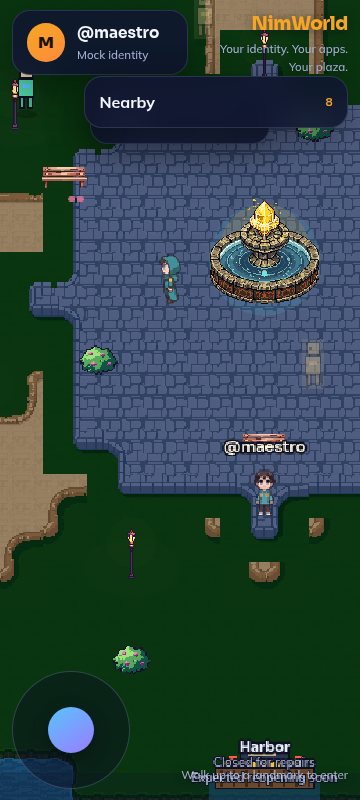
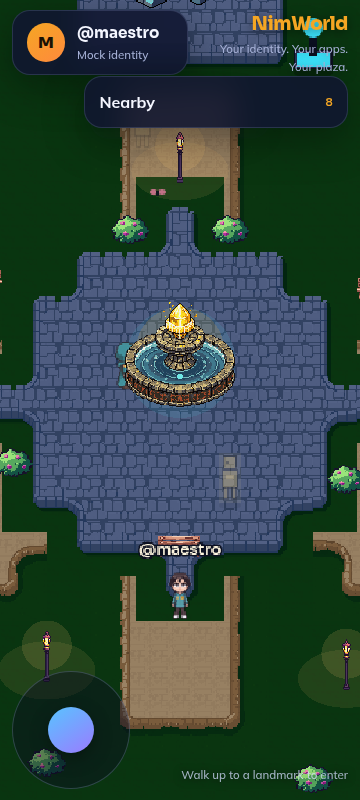
fix(web): make the plaza spokes read as roads
Spokes were painted by stamping a brush along the line and rounding to a cell
at each step, so their edges alternated between full and narrow runs and they
read as torn slabs. stampRoad rasterizes by perpendicular distance instead,
which is clean at any angle; the Bezier bulge and jitter go with it, since
every spoke is straight.

Shrinks the hub so the avenues have room to be avenues, and extends the south
approach past SPAWN_POINT — that point sits exactly HUB_RADIUS from the center,
so the hub disk was erasing the whole spoke without failing a test.

diff --git a/apps/web/src/game/world/plazaTerrainMap.ts b/apps/web/src/game/world/plazaTerrainMap.ts
@@ -58,29 +58,72 @@ function stampLandingPad(
   }
 }
 
-/** Quadratic Bezier ribbon with organic bulge / jitter. */
-function stampCurve(
+/**
+ * Snap a road axis so a band of `width` cells lands on exactly that many cells.
+ * Odd widths straddle a cell, even widths straddle the seam between two.
+ */
+function snapAxis(axis: number, width: number): number {
+  return width % 2 === 0 ? Math.round(axis - 0.5) + 0.5 : Math.round(axis)
+}
+
+/**
+ * Stamp a straight road `width` cells wide between two world-space points.
+ *
+ * Rasterized by perpendicular distance rather than by stamping a brush along
+ * the line: a brush rounds its position to a cell at every step, so its edges
+ * alternate between full and narrow runs and the road reads as a torn ribbon.
+ *
+ * A road renders one display tile wider than its cell count, because the Wang
+ * layer needs a transition tile on each side. `width: 2` is the narrowest road
+ * with a solid core — at width 1 every tile is a transition and the road has
+ * no middle.
+ */
+function stampRoad(
   grid: TerrainCell[][],
   x0: number,
   y0: number,
   x1: number,
   y1: number,
-  bulge: number,
-  halfWidth: number,
+  width: number,
   value: TerrainCell,
-  steps = 28,
 ): void {
-  const tile = TERRAIN_TILE
-  const xc = (x0 + x1) / 2 + bulge
-  const yc = (y0 + y1) / 2 - Math.abs(bulge) * 0.22
-  for (let i = 0; i <= steps; i++) {
-    const t = i / steps
-    const x = (1 - t) * (1 - t) * x0 + 2 * (1 - t) * t * xc + t * t * x1
-    const y = (1 - t) * (1 - t) * y0 + 2 * (1 - t) * t * yc + t * t * y1
-    const jitter = Math.sin(i * 1.7 + bulge * 0.01) * 6
-    const col = Math.round((x + jitter) / tile)
-    const row = Math.round(y / tile)
-    stampDisk(grid, col, row, halfWidth, value)
+  let ax = x0 / TERRAIN_TILE
+  let ay = y0 / TERRAIN_TILE
+  let bx = x1 / TERRAIN_TILE
+  let by = y1 / TERRAIN_TILE
+
+  // Straighten near-axis-aligned roads. The Arena and Marketplace sit one cell
+  // off the hub's row, which rasterizes as a single jog partway along an
+  // otherwise straight avenue — worse than the 32px of drift it corrects.
+  if (Math.abs(by - ay) < 1.5) {
+    ay = by = snapAxis(ay, width)
+  } else if (Math.abs(bx - ax) < 1.5) {
+    ax = bx = snapAxis(ax, width)
+  }
+
+  const dx = bx - ax
+  const dy = by - ay
+  const len2 = dx * dx + dy * dy
+  if (len2 === 0) return
+
+  // A cell is road when the band covers its center. Measuring to the center
+  // rather than to the cell's near edge is what keeps a diagonal road
+  // connected: its neighbours sit 0.707 out, so a tighter reach leaves holes.
+  const reach = width / 2
+  const margin = Math.ceil(reach) + 1
+  const c0 = Math.max(0, Math.floor(Math.min(ax, bx) - margin))
+  const c1 = Math.min(TERRAIN_COLS - 1, Math.ceil(Math.max(ax, bx) + margin))
+  const r0 = Math.max(0, Math.floor(Math.min(ay, by) - margin))
+  const r1 = Math.min(TERRAIN_ROWS - 1, Math.ceil(Math.max(ay, by) + margin))
+
+  for (let r = r0; r <= r1; r++) {
+    for (let c = c0; c <= c1; c++) {
+      // Squared-off ends: the hub disk and the landing pads cover the joins.
+      const t = ((c - ax) * dx + (r - ay) * dy) / len2
+      if (t < 0 || t > 1) continue
+      if (Math.hypot(c - (ax + t * dx), r - (ay + t * dy)) > reach) continue
+      grid[r]![c] = value
+    }
   }
 }
 
@@ -157,7 +200,17 @@ export function floodReachable(
 }
 
 /** Hub radius in cells. */
-const HUB_RADIUS = 5
+const HUB_RADIUS = 4
+/** Cardinal avenue width in cells. Renders one display tile wider — see `stampRoad`. */
+const SPOKE_WIDTH = 3
+/**
+ * Diagonal roads are stamped a cell narrower. A diagonal band covers roughly
+ * √2 more cells per row than a cardinal one of the same width, so matching the
+ * numbers would make the diagonals read as wedges rather than as roads.
+ */
+const DIAGONAL_WIDTH = 2
+/** How far the south approach runs past SPAWN_POINT, toward the Harbor tease. */
+const SOUTH_APPROACH_RUN = 96
 /** Canal ellipse, in cells from the center cell. Outside it is water. */
 const CANAL_RX = 16
 const CANAL_RY = 11.5
@@ -176,33 +229,37 @@ export function buildPlazaTerrainGrid(): TerrainCell[][] {
   stampOutsideEllipse(grid, center.c, center.r, CANAL_RX, CANAL_RY, TERRAIN_WATER)
 
   // Spokes: straight paths from hub edge to each landmark.
-  const spokes: Array<{ id: string; pad: { w: number; h: number }; kind: TerrainCell }> = [
-    { id: 'arcade', pad: { w: 5, h: 3 }, kind: TERRAIN_ENTRANCE },
-    { id: 'arena', pad: { w: 4, h: 3 }, kind: TERRAIN_ENTRANCE },
-    { id: 'marketplace', pad: { w: 2, h: 2 }, kind: TERRAIN_CONSTRUCTION },
-    { id: 'social-club', pad: { w: 3, h: 2 }, kind: TERRAIN_ENTRANCE },
-    { id: 'town-hall', pad: { w: 3, h: 3 }, kind: TERRAIN_ENTRANCE },
+  const spokes: Array<{
+    id: string
+    pad: { w: number; h: number }
+    kind: TerrainCell
+    width: number
+  }> = [
+    { id: 'arcade', pad: { w: 5, h: 3 }, kind: TERRAIN_ENTRANCE, width: SPOKE_WIDTH },
+    { id: 'arena', pad: { w: 4, h: 3 }, kind: TERRAIN_ENTRANCE, width: SPOKE_WIDTH },
+    { id: 'marketplace', pad: { w: 2, h: 2 }, kind: TERRAIN_CONSTRUCTION, width: SPOKE_WIDTH },
+    { id: 'social-club', pad: { w: 3, h: 2 }, kind: TERRAIN_ENTRANCE, width: DIAGONAL_WIDTH },
+    { id: 'town-hall', pad: { w: 3, h: 3 }, kind: TERRAIN_ENTRANCE, width: DIAGONAL_WIDTH },
   ]
 
-  for (const { id, pad, kind } of spokes) {
+  for (const { id, pad, kind, width } of spokes) {
     const loc = LOCATIONS.find((l) => l.id === id)!
-    // bulge 0 → straight spoke.
-    stampCurve(grid, PLAZA_CENTER.x, PLAZA_CENTER.y, loc.x, loc.y, 0, 1, TERRAIN_PATH, 32)
+    stampRoad(grid, PLAZA_CENTER.x, PLAZA_CENTER.y, loc.x, loc.y, width, TERRAIN_PATH)
     const cell = toCell(loc.x, loc.y)
     stampLandingPad(grid, cell.c, cell.r, pad.w, pad.h, kind)
   }
 
-  // Spawn approach — a sixth spoke running south from the hub.
-  stampCurve(
+  // Spawn approach — a sixth spoke running south from the hub. It runs well
+  // past SPAWN_POINT, which sits on the hub itself: a road that stopped there
+  // would be swallowed whole by the hub disk.
+  stampRoad(
     grid,
     PLAZA_CENTER.x,
     PLAZA_CENTER.y,
     SPAWN_POINT.x,
-    SPAWN_POINT.y,
-    0,
-    1,
+    SPAWN_POINT.y + SOUTH_APPROACH_RUN,
+    SPOKE_WIDTH,
     TERRAIN_PATH,
-    16,
   )
 
   // Hub last so it always reads as one clean disk over the spoke stubs.

diff --git a/apps/web/src/game/world/plazaTerrainMap.test.ts b/apps/web/src/game/world/plazaTerrainMap.test.ts
@@ -138,6 +138,31 @@ describe('plazaTerrainMap', () => {
     expect(paths).toBeGreaterThan(60)
   })
 
+  it('runs the south approach clear of the hub', () => {
+    const grid = buildPlazaTerrainGrid()
+    const fc = toCell(PLAZA_CENTER.x, PLAZA_CENTER.y)
+    // Walking south from the center, the first cell past the hub must be road.
+    // SPAWN_POINT sits on the hub itself, so a spoke that stopped there would
+    // be stamped over by the hub disk and vanish without failing any test.
+    let r = fc.r
+    while (r < TERRAIN_ROWS && isStoneFamily(grid[r]![fc.c]!)) r++
+    expect(isPath(grid[r]![fc.c]!), 'south approach leaves the hub as path').toBe(true)
+  })
+
+  it('centers the north avenue on the Arcade instead of jogging past it', () => {
+    const grid = buildPlazaTerrainGrid()
+    const arcade = LOCATIONS.find((l) => l.id === 'arcade')!
+    const cell = toCell(arcade.x, arcade.y)
+
+    let row = cell.r
+    while (row < TERRAIN_ROWS && !isPath(grid[row]![cell.c]!)) row++
+    expect(row, 'north avenue found below the Arcade pad').toBeLessThan(TERRAIN_ROWS)
+
+    const cols = grid[row]!.flatMap((v, c) => (isPath(v) && Math.abs(c - cell.c) <= 4 ? [c] : []))
+    expect(cols.length).toBeGreaterThan(0)
+    expect((Math.min(...cols) + Math.max(...cols)) / 2, 'avenue straddles the pad').toBe(cell.c)
+  })
+
   it('keeps water out of the hub and off every spoke', () => {
     const grid = buildPlazaTerrainGrid()
     const fc = toCell(PLAZA_CENTER.x, PLAZA_CENTER.y)

diff --git a/docs/plans/2026-08-03-art-pass-c-design.md b/docs/plans/2026-08-03-art-pass-c-design.md
@@ -203,6 +203,25 @@ Each phase gets its own implementation plan.
 
 C1 lands with tests green and zero credits spent, so the new ground plan can be reviewed in placeholder colors before any art is commissioned.
 
+## Correction after C2 review
+
+The spokes shipped in C1 read as slabs rather than roads. Three causes, all in
+`plazaTerrainMap.ts`, all fixed before C3:
+
+1. `stampCurve` painted by stamping a brush along the line and rounding to a cell at
+   every step, so road edges alternated between full and narrow runs. Replaced by
+   `stampRoad`, which rasterizes by perpendicular distance and has clean edges at any
+   angle. The Bezier bulge and jitter went with it — every spoke was straight.
+2. The hub disk at radius 5 left only 2–3 cells between itself and each landing pad, so
+   no spoke was long enough to read as an avenue. Hub is now radius 4.
+3. The south approach ran from the center to `SPAWN_POINT`, which sits exactly
+   `HUB_RADIUS` away — the hub disk, stamped last, erased it entirely. It now runs past
+   the spawn toward the Harbor.
+
+Cardinal avenues are 3 cells, diagonals 2: a diagonal band covers ~√2 more cells per row,
+so equal numbers make the diagonals read as wedges. A road renders one display tile wider
+than its cell count, since the Wang layer needs a transition tile on each side.
+
 ## Relationship to the product roadmap
 
 Art Pass C is orthogonal to `docs/ROADMAP.md` Phases 1–5 and can proceed in parallel. It does not depend on backend work, real presence, or real NimConnect data, and it must not introduce mock surfaces for features those phases own.
